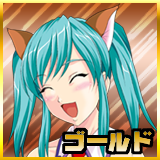
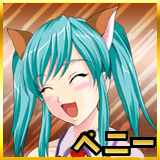
gachaバナー追加

Changed region(s): [[0.375, 0.7812, 1.0, 1.0]]

diff --git a/app/webroot/css/main.css b/app/webroot/css/main.css
@@ -600,6 +600,11 @@ input.btn_submit {
 .quest {
     position: relative;
     width: 640px;
+    left: 6px;
+}
+.questText {
+    position: relative;
+    width: 600px;
     left: 10px;
 }
 .strQuestList {
@@ -716,7 +721,7 @@ input.btn_submit {
 }
 .textAreaStageImg {
     width:600px;
-    height: 180px;
+    height: 182px;
 }
 .goldImg {
     width:150px;
@@ -924,7 +929,7 @@ display: block;
 
 /** マイページ */
 .mypage {
-    height:900px;
+    height:980px;
 }
 /** マイページデッキ */
 .deckCard1 {
@@ -962,6 +967,7 @@ display: block;
     position: relative;
     top: 40px;
     left: 0px;
+    height:280px;
     color:#FFA500
 }
 .myLevel {

diff --git a/app/webroot/js/hills.eres.xyz.js b/app/webroot/js/hills.eres.xyz.js
@@ -1,3 +1,3 @@
-const BASE_URL = 'http://eres.xyz/';
+const BASE_URL = 'http://hills.eres.xyz/';
 const IMG_URL  = BASE_URL + 'img/';
 const FILEOUT_URL  = BASE_URL + 'File/outimage';

diff --git a/app/Config/database.php b/app/Config/database.php
@@ -61,7 +61,18 @@
  */
 class DATABASE_CONFIG {
 
-	public $default = array(
+	public $com = array(
+		'datasource' => 'Database/Mysql',
+		'persistent' => false,
+		'host' => 'eres.xyz',
+		'login' => 'barx',
+		'password' => 'arx0505q',
+		'database' => 'eres',
+		'prefix' => '',
+		'encoding' => 'utf8',
+	);
+
+	public $stg = array(
 		'datasource' => 'Database/Mysql',
 		'persistent' => false,
 		'host' => 'localhost',
@@ -72,13 +83,13 @@ class DATABASE_CONFIG {
 		'encoding' => 'utf8',
 	);
 
-	public $test = array(
+	public $dev = array(
 		'datasource' => 'Database/Mysql',
 		'persistent' => false,
 		'host' => 'localhost',
 		'login' => 'barx',
 		'password' => 'arx0505q',
-		'database' => 'test_eres',
+		'database' => 'eres',
 		'prefix' => '',
 		'encoding' => 'utf8',
 	);

diff --git a/app/Lib/ApplihillsUtil.php b/app/Lib/ApplihillsUtil.php
@@ -3,10 +3,10 @@ require_once __DIR__ .'/OAuth/OAuth.php' ;
 
 class ApplihillsUtil extends OAuthSignatureMethod_RSA_SHA1
 {
-  const API_HOST        = "app.appli-hills.com";
-  const CONSUMER_KEY    = "yourconsumerkey";
-  const CONSUMER_SECRET = "yourconsumersecret";
-  const PUBKEY_FILENAME = "public.crt";
+  const API_HOST        = "sb.app.appli-hills.com";
+  const CONSUMER_KEY    = "38fb76184bb9586b";
+  const CONSUMER_SECRET = "f725a825d2d594494509f7f2f03a96b1";
+  const PUBKEY_FILENAME = "sb.public.crt";
 
   const SB_API_HOST        = "sb.app.appli-hills.com";
   const SB_CONSUMER_KEY    = "0bacae904380ed27";

diff --git a/app/Model/AppModel.php b/app/Model/AppModel.php
@@ -41,12 +41,10 @@ class AppModel extends Model {
 
 
     public function __construct($id = false, $table = null, $ds = null) {
-        $appEnv = env('APP_ENV');
-        /*
-        if (!empty($appEnv)) {
-            $this->useDbConfig = $appEnv;
-        }   
-        */
+
+        // 環境によってデータベース設定変更
+        $this->useDbConfig = MODE;
+
         parent::__construct( $id, $table, $ds );
     }
 
